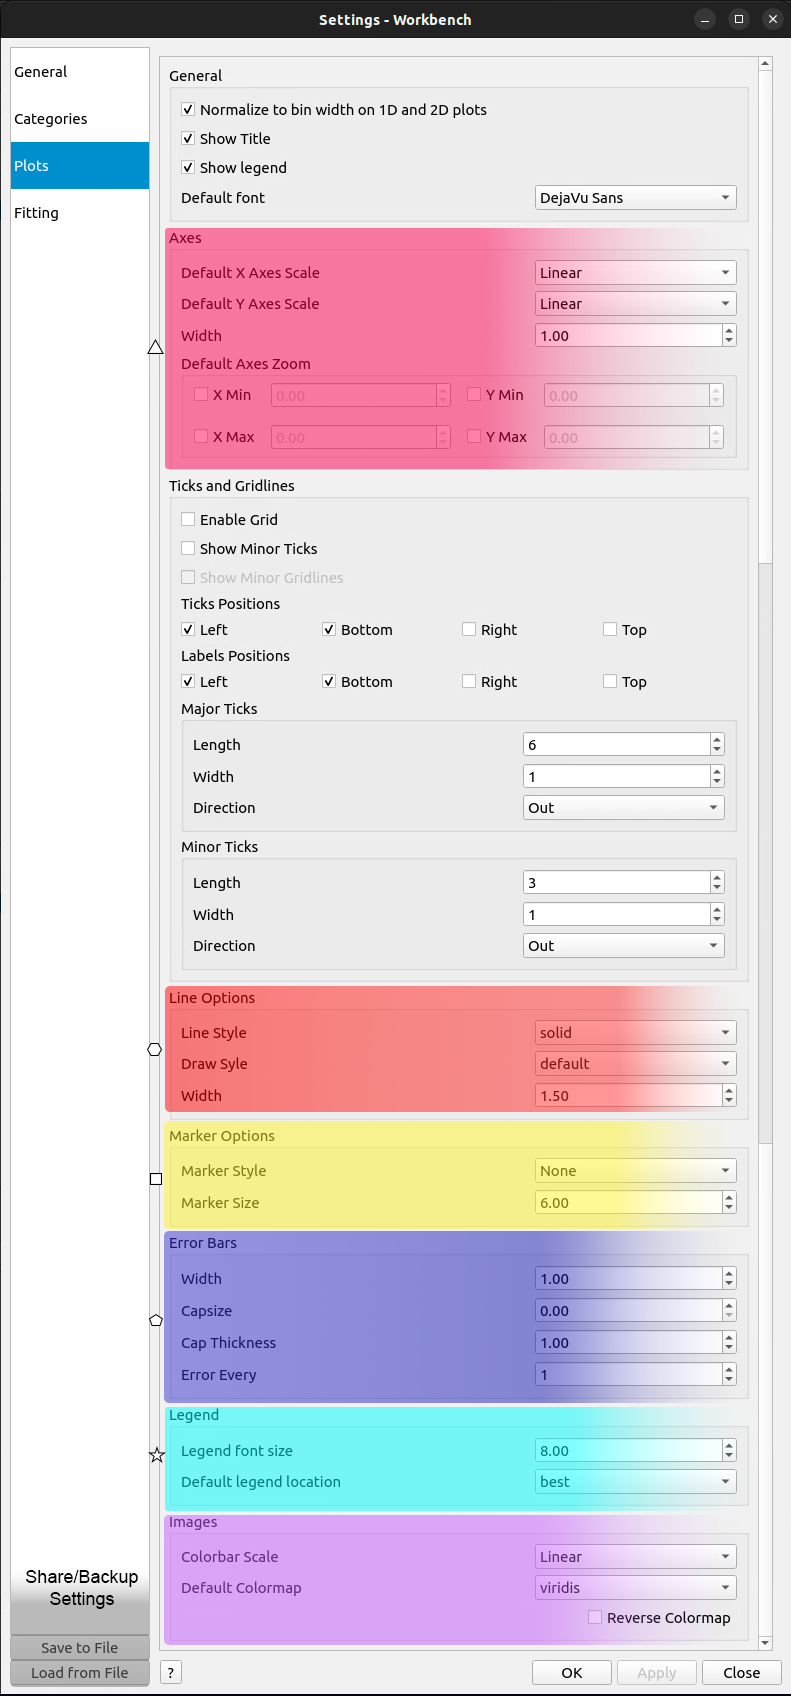
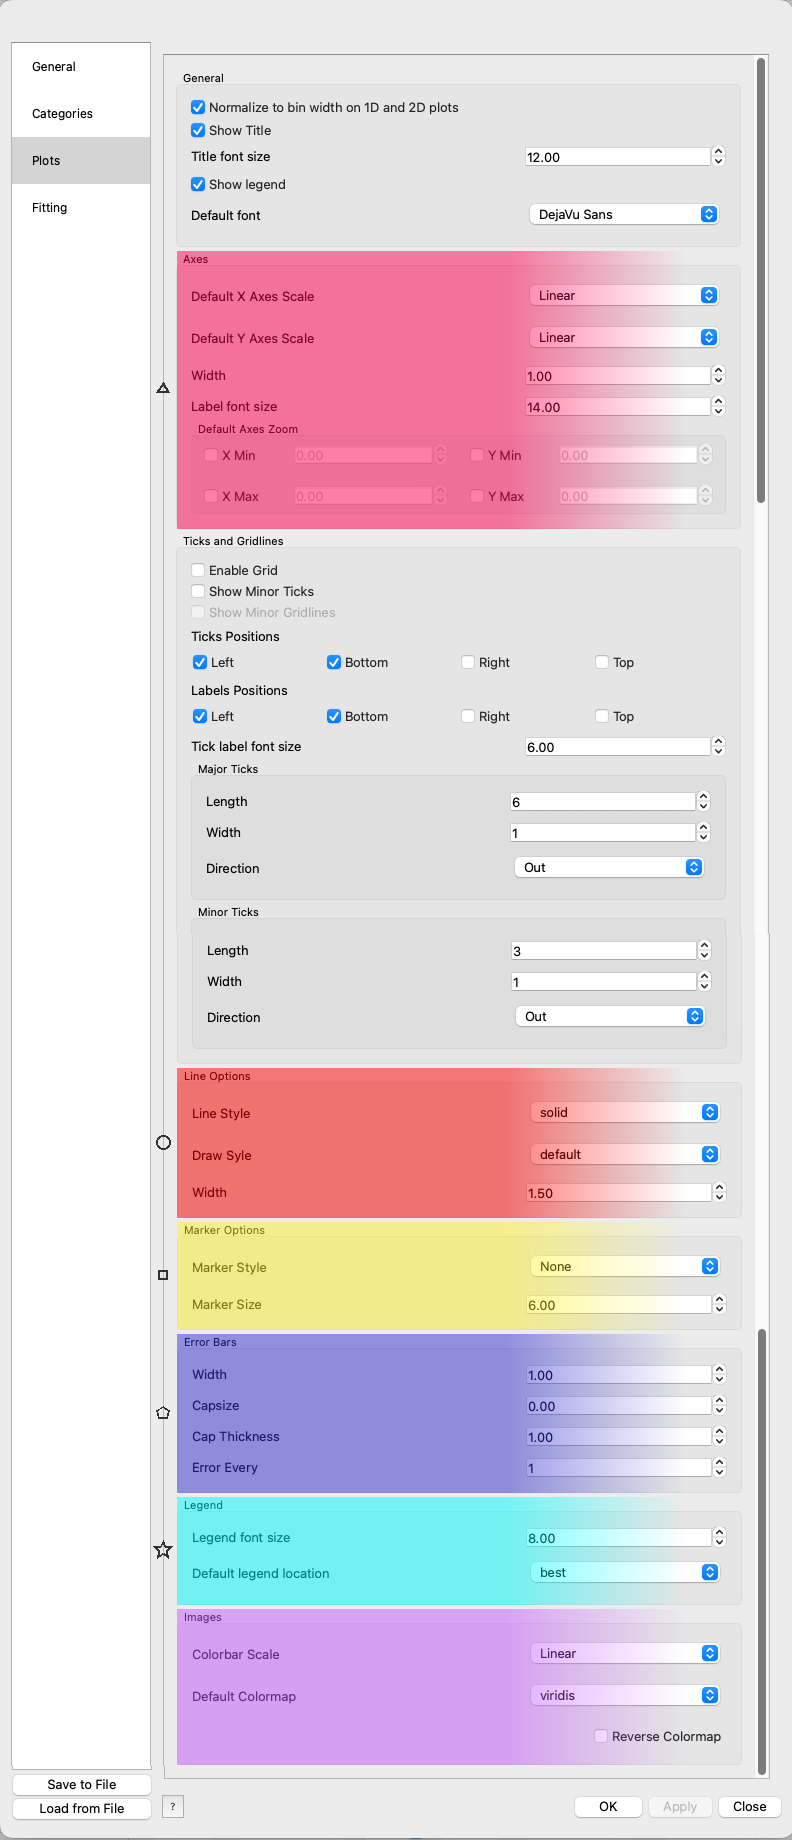
Expose title font size and update image for docs.

diff --git a/qt/applications/workbench/workbench/widgets/settings/plots/test/test_plot_settings.py b/qt/applications/workbench/workbench/widgets/settings/plots/test/test_plot_settings.py
@@ -22,6 +22,7 @@ class MockPlotsSettingsModel:
         self.get_normalize_to_bin_width = MagicMock()
         self.get_show_title = MagicMock()
         self.get_show_legend = MagicMock()
+        self.get_title_font_size = MagicMock()
         self.get_x_axes_scale = MagicMock()
         self.get_y_axes_scale = MagicMock()
         self.get_axes_line_width = MagicMock()
@@ -93,6 +94,7 @@ class MockPlotsSettingsModel:
         self.set_show_minor_ticks = MagicMock()
         self.set_show_minor_gridlines = MagicMock()
         self.set_show_legend = MagicMock()
+        self.set_title_font_size = MagicMock()
         self.set_legend_location = MagicMock()
         self.set_legend_font_size = MagicMock()
         self.set_color_map = MagicMock()
@@ -120,6 +122,7 @@ class PlotsSettingsTest(unittest.TestCase):
         self.mock_model.get_normalize_to_bin_width.assert_called_once()
         self.mock_model.get_show_title.assert_called_once()
         self.mock_model.get_show_legend.assert_called_once()
+        self.mock_model.get_title_font_size.assert_called_once()
         self.mock_model.get_plot_font.assert_called_once()
         self.mock_model.get_x_axes_scale.assert_called_once()
         self.mock_model.get_y_axes_scale.assert_called_once()
@@ -187,6 +190,21 @@ class PlotsSettingsTest(unittest.TestCase):
 
         presenter.action_show_title_changed(Qt.Unchecked)
         self.mock_model.set_show_title.assert_called_once_with("Off")
+        mock_notify_changes.assert_called_once()
+
+    @patch(NOTIFY_CHANGES_PATH)
+    def test_action_title_font_size_changed(self, mock_notify_changes: MagicMock):
+        presenter = PlotSettings(None, model=self.mock_model)
+
+        presenter.action_title_font_size_changed(12)
+        self.mock_model.set_title_font_size.assert_called_once_with("12")
+        mock_notify_changes.assert_called_once()
+
+        self.mock_model.set_title_font_size.reset_mock()
+        mock_notify_changes.reset_mock()
+
+        presenter.action_title_font_size_changed(10.5)
+        self.mock_model.set_title_font_size.assert_called_once_with("10.5")
         mock_notify_changes.assert_called_once()
 
     @patch(NOTIFY_CHANGES_PATH)

diff --git a/qt/applications/workbench/workbench/widgets/settings/plots/presenter.py b/qt/applications/workbench/workbench/widgets/settings/plots/presenter.py
@@ -56,6 +56,7 @@ class PlotSettings(SettingsPresenterBase):
 
     def add_filters(self):
         filter_out_mousewheel_events_from_combo_or_spin_box(self._view.plot_font)
+        filter_out_mousewheel_events_from_combo_or_spin_box(self._view.title_font_size)
         filter_out_mousewheel_events_from_combo_or_spin_box(self._view.x_axes_scale)
         filter_out_mousewheel_events_from_combo_or_spin_box(self._view.y_axes_scale)
         filter_out_mousewheel_events_from_combo_or_spin_box(self._view.axes_line_width)
@@ -100,10 +101,12 @@ class PlotSettings(SettingsPresenterBase):
         normalize_to_bin_width = "on" == self._model.get_normalize_to_bin_width().lower()
         show_title = "on" == self._model.get_show_title().lower()
         show_legend = "on" == self._model.get_show_legend().lower()
+        title_font_size = float(self._model.get_title_font_size())
 
         self._view.normalize_to_bin_width.setChecked(normalize_to_bin_width)
         self._view.show_title.setChecked(show_title)
         self._view.show_legend.setChecked(show_legend)
+        self._view.title_font_size.setValue(title_font_size)
         self.populate_font_combo_box()
 
     def setup_axes_group(self):
@@ -246,6 +249,7 @@ class PlotSettings(SettingsPresenterBase):
     def setup_signals(self):
         self._view.normalize_to_bin_width.stateChanged.connect(self.action_normalization_changed)
         self._view.show_title.stateChanged.connect(self.action_show_title_changed)
+        self._view.title_font_size.valueChanged.connect(self.action_title_font_size_changed)
         self._view.show_legend.stateChanged.connect(self.action_show_legend_changed)
 
         # Axes
@@ -313,6 +317,10 @@ class PlotSettings(SettingsPresenterBase):
 
     def action_show_title_changed(self, state):
         self._model.set_show_title("On" if checkbox_state_to_bool(state) else "Off")
+        self.notify_changes()
+
+    def action_title_font_size_changed(self, value):
+        self._model.set_title_font_size(str(value))
         self.notify_changes()
 
     def action_enable_grid_changed(self, state):

diff --git a/qt/applications/workbench/workbench/widgets/settings/plots/test/test_plot_settings_model.py b/qt/applications/workbench/workbench/widgets/settings/plots/test/test_plot_settings_model.py
@@ -66,6 +66,12 @@ class PlotsSettingsModelTest(BaseSettingsModelTest):
         )
 
     @patch(GET_SAVED_VALUE_PATCH_PATH)
+    def test_get_title_font_size(self, get_saved_value_mock: MagicMock):
+        self._assert_getter_with_different_values(
+            get_saved_value_mock, self.model.get_title_font_size, ["10", "12"], call(PlotProperties.TITLE_FONT_SIZE.value)
+        )
+
+    @patch(GET_SAVED_VALUE_PATCH_PATH)
     def test_get_show_legend(self, get_saved_value_mock: MagicMock):
         self._assert_getter_with_different_values(
             get_saved_value_mock, self.model.get_show_legend, ["On", "Off"], call(PlotProperties.SHOW_LEGEND.value)
@@ -340,6 +346,12 @@ class PlotsSettingsModelTest(BaseSettingsModelTest):
     def test_set_plot_font(self, add_change_mock: MagicMock):
         self._assert_setter_with_different_values(
             add_change_mock, self.model.set_plot_font, ["time new roman", "computer modern"], PlotProperties.PLOT_FONT.value
+        )
+
+    @patch(ADD_CHANGE_PATCH_PATH)
+    def test_set_title_font_size(self, add_change_mock: MagicMock):
+        self._assert_setter_with_different_values(
+            add_change_mock, self.model.set_title_font_size, ["10", "12"], PlotProperties.TITLE_FONT_SIZE.value
         )
 
     @patch(ADD_CHANGE_PATCH_PATH)

diff --git a/qt/applications/workbench/workbench/widgets/settings/plots/model.py b/qt/applications/workbench/workbench/widgets/settings/plots/model.py
@@ -48,6 +48,7 @@ class PlotProperties(Enum):
     MARKER_SIZE = "plots.marker.Size"
     NORMALIZATION = "graph1d.autodistribution"
     SHOW_TITLE = "plots.ShowTitle"
+    TITLE_FONT_SIZE = "plots.titleFontSize"
     PLOT_FONT = "plots.font"
     SHOW_LEGEND = "plots.ShowLegend"
     LEGEND_FONT_SIZE = "plots.legend.FontSize"
@@ -87,6 +88,9 @@ class PlotsSettingsModel(ConfigSettingsChangesModel):
 
     def get_show_title(self) -> str:
         return self.get_saved_value(PlotProperties.SHOW_TITLE.value)
+
+    def get_title_font_size(self) -> str:
+        return self.get_saved_value(PlotProperties.TITLE_FONT_SIZE.value)
 
     def get_show_legend(self) -> str:
         return self.get_saved_value(PlotProperties.SHOW_LEGEND.value)
@@ -216,6 +220,9 @@ class PlotsSettingsModel(ConfigSettingsChangesModel):
 
     def set_show_title(self, value: str) -> None:
         self.add_change(PlotProperties.SHOW_TITLE.value, value)
+
+    def set_title_font_size(self, value: str) -> None:
+        self.add_change(PlotProperties.TITLE_FONT_SIZE.value, value)
 
     def set_enable_grid(self, value: str) -> None:
         self.add_change(PlotProperties.ENABLE_GRID.value, value)

diff --git a/Framework/PythonInterface/mantid/plots/plotfunctions.py b/Framework/PythonInterface/mantid/plots/plotfunctions.py
@@ -546,6 +546,7 @@ def get_plot_fig(overplot=None, ax_properties=None, window_title=None, axes_num=
             axes_label_font_size = float(ConfigService.getString("plots.axesLabelFontSize"))
             ax.xaxis.label.set_size(axes_label_font_size)
             ax.yaxis.label.set_size(axes_label_font_size)
+            ax.title.set_size(float(ConfigService.getString("plots.titleFontSize")))
 
         if ConfigService.getString("plots.enableGrid").lower() == "on":
             try:

diff --git a/docs/source/concepts/PropertiesFile.rst b/docs/source/concepts/PropertiesFile.rst
@@ -334,6 +334,8 @@ Plotting Settings
 +=====================================+==================================================================+======================+
 |``plots.ShowTitle``                  |Whether to show titles on plots                                   | ``On``, ``Off``      |
 +-------------------------------------+------------------------------------------------------------------+----------------------+
+|``plots.titleFontSize``              |The default font size for the plot title                          |``12.0``              |
++-------------------------------------+------------------------------------------------------------------+----------------------+
 |``plots.ShowLegend``                 |Whether to show legend on plots                                   | ``On``, ``Off``      |
 +-------------------------------------+------------------------------------------------------------------+----------------------+
 |``plots.font``                       |The default font for labels and titles on plots.                  |``Helvetica``         |

diff --git a/docs/source/release/v7.0.0/Workbench/New_features/42002.rst b/docs/source/release/v7.0.0/Workbench/New_features/42002.rst
@@ -1,1 +1,1 @@
-- The default font size for axis labels and tick labels on plots can now be set on the :ref:`Plots tab of the Settings <PlotSettings>`. The values are saved to the user properties as ``plots.axesLabelFontSize`` and ``plots.ticks.labelSize``.
+- The default font size for the plot title, axis labels, and tick labels on plots can now be set on the :ref:`Plots tab of the Settings <PlotSettings>`. The values are saved to the user properties as ``plots.titleFontSize``, ``plots.axesLabelFontSize`` and ``plots.ticks.labelSize``.
